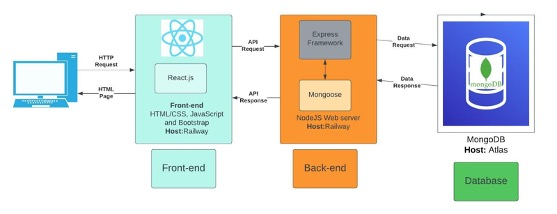
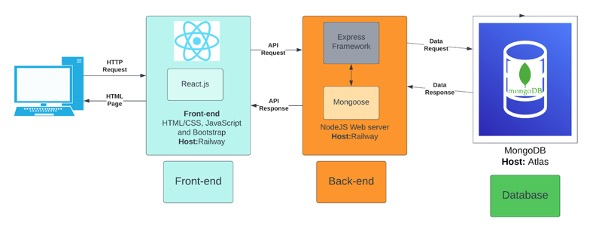
data flow diagram added

diff --git a/README.md b/README.md
@@ -57,7 +57,7 @@ Even for gamers with the time to play consistently, the sheer number of games th
 
 ## R2 - Dataflow Diagram
 
-
+![Data Flow Diagram](Resources/data_flow_diagram_game_app.jpeg)
 
 ## R3 - Architecture Diagram
 
@@ -67,7 +67,12 @@ Even for gamers with the time to play consistently, the sheer number of games th
 
 Below is a list of user stories and beneath each are how the User Story action focus is carried out within the application.
 
-#### As an end-user of the site I want to be able to create an account and log in so I can and access the features on the site
+#### As an user of the site I want to create an account so I can login
+
+* Provide an email, name and password when creating an account
+* If an email address already belongs to an account and a new account is created with the same email, the user will receive an message making them aware of this
+
+#### As an user of the site I want to an log in so I access the features on the site
 
 * Username and Password match that of a user account in the system and end-user is taken to the homepage/profile page
 * Username is wrong so credentials error is shown to end-user
@@ -75,7 +80,7 @@ Below is a list of user stories and beneath each are how the User Story action f
 * Username is left blank so end-user will be shown an error advising username box cannot be empty
 * Password is left blank so end user will be shown an error advising password box cannot be empty
 
-#### As a user I want to view a list of all games so I can view or add games to my profile and play them 
+#### As a user I want to view a list of all games so I can view or add games to my profile and play them
 
 * User can select the “Games List” option from the sticky nav bar at the top of the page
 * User can select “Games List” option from the Home Page
@@ -90,7 +95,7 @@ Below is a list of user stories and beneath each are how the User Story action f
 
 * User can select a game from the games list to view the game details on the game page
 
-#### As a user I want to be able to filter games using certain options (genre, on a platform, total hours to complete, single player and/or multiplayer?) so I can discover games based on my preferences
+#### As a user I want to be able to filter games using certain options (genre, platform, hours to complete, multiplayer?) so I can discover games based on my preferences
 
 * User picks “strategy” genre from a drop-down list which displays only games belonging to this genre
 * User picks “PlayStation 5” platform from a drop-down list which displays only the games available to play on the PlayStation 5
@@ -142,3 +147,7 @@ Below is a list of user stories and beneath each are how the User Story action f
 ![Trello Board 3](/Resources/trello3.jpg)
 
 ![Trello Board 4](/Resources/trello4.jpg)
+
+![Trello Board - User Stories](/Resources/trello_login_user_stories.png)
+
+![Trello Board - User Stories 2](Resources/trello_add_remove_user_stories.png)
